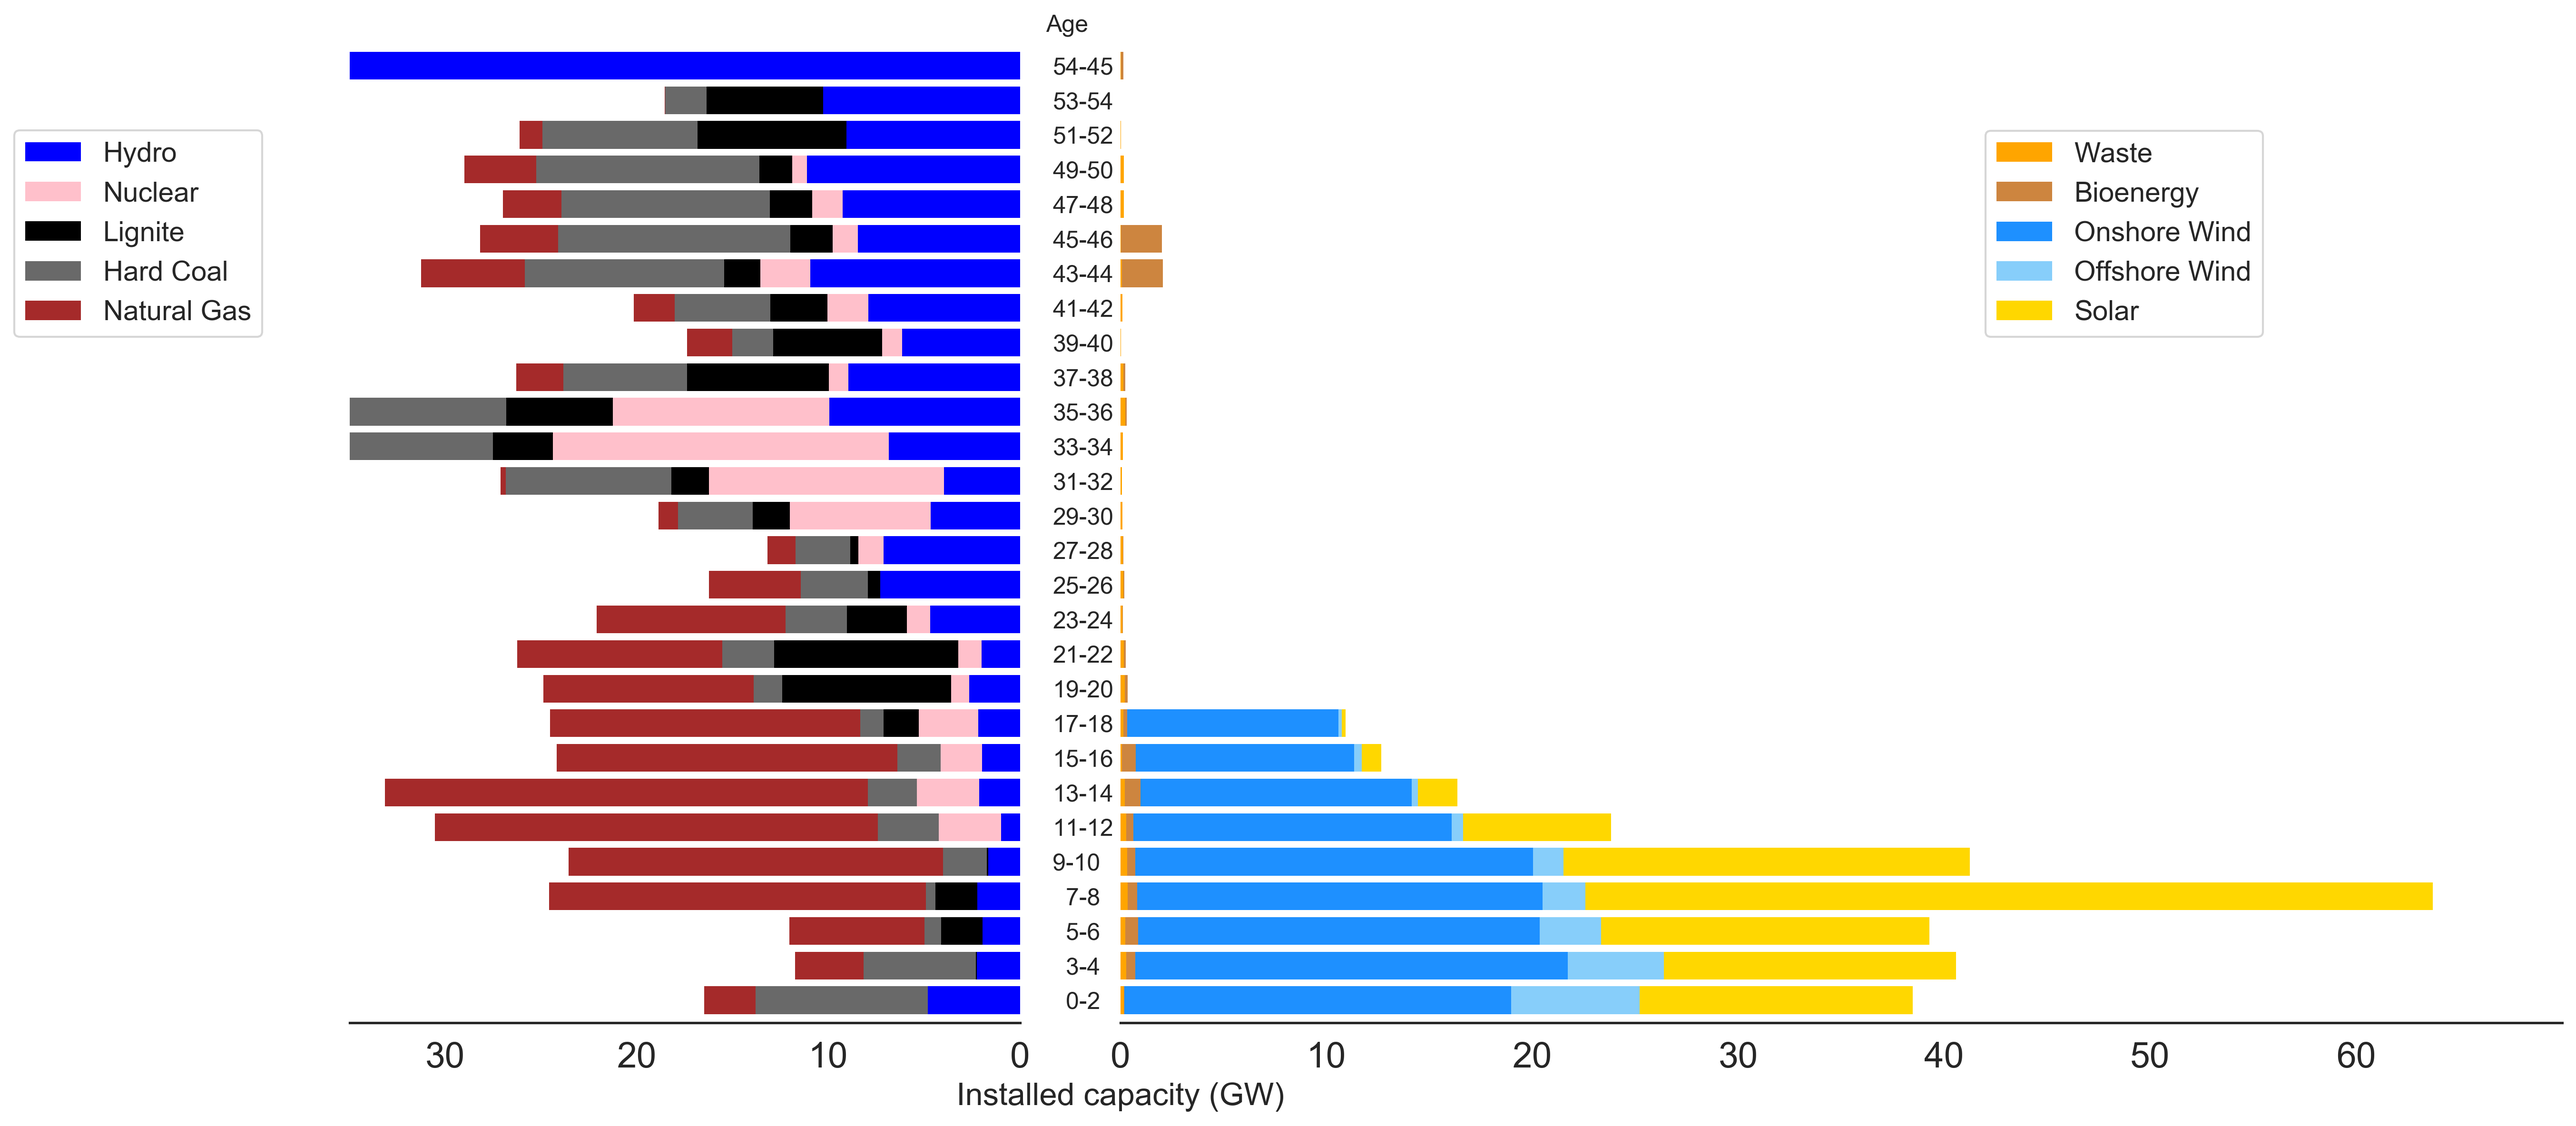
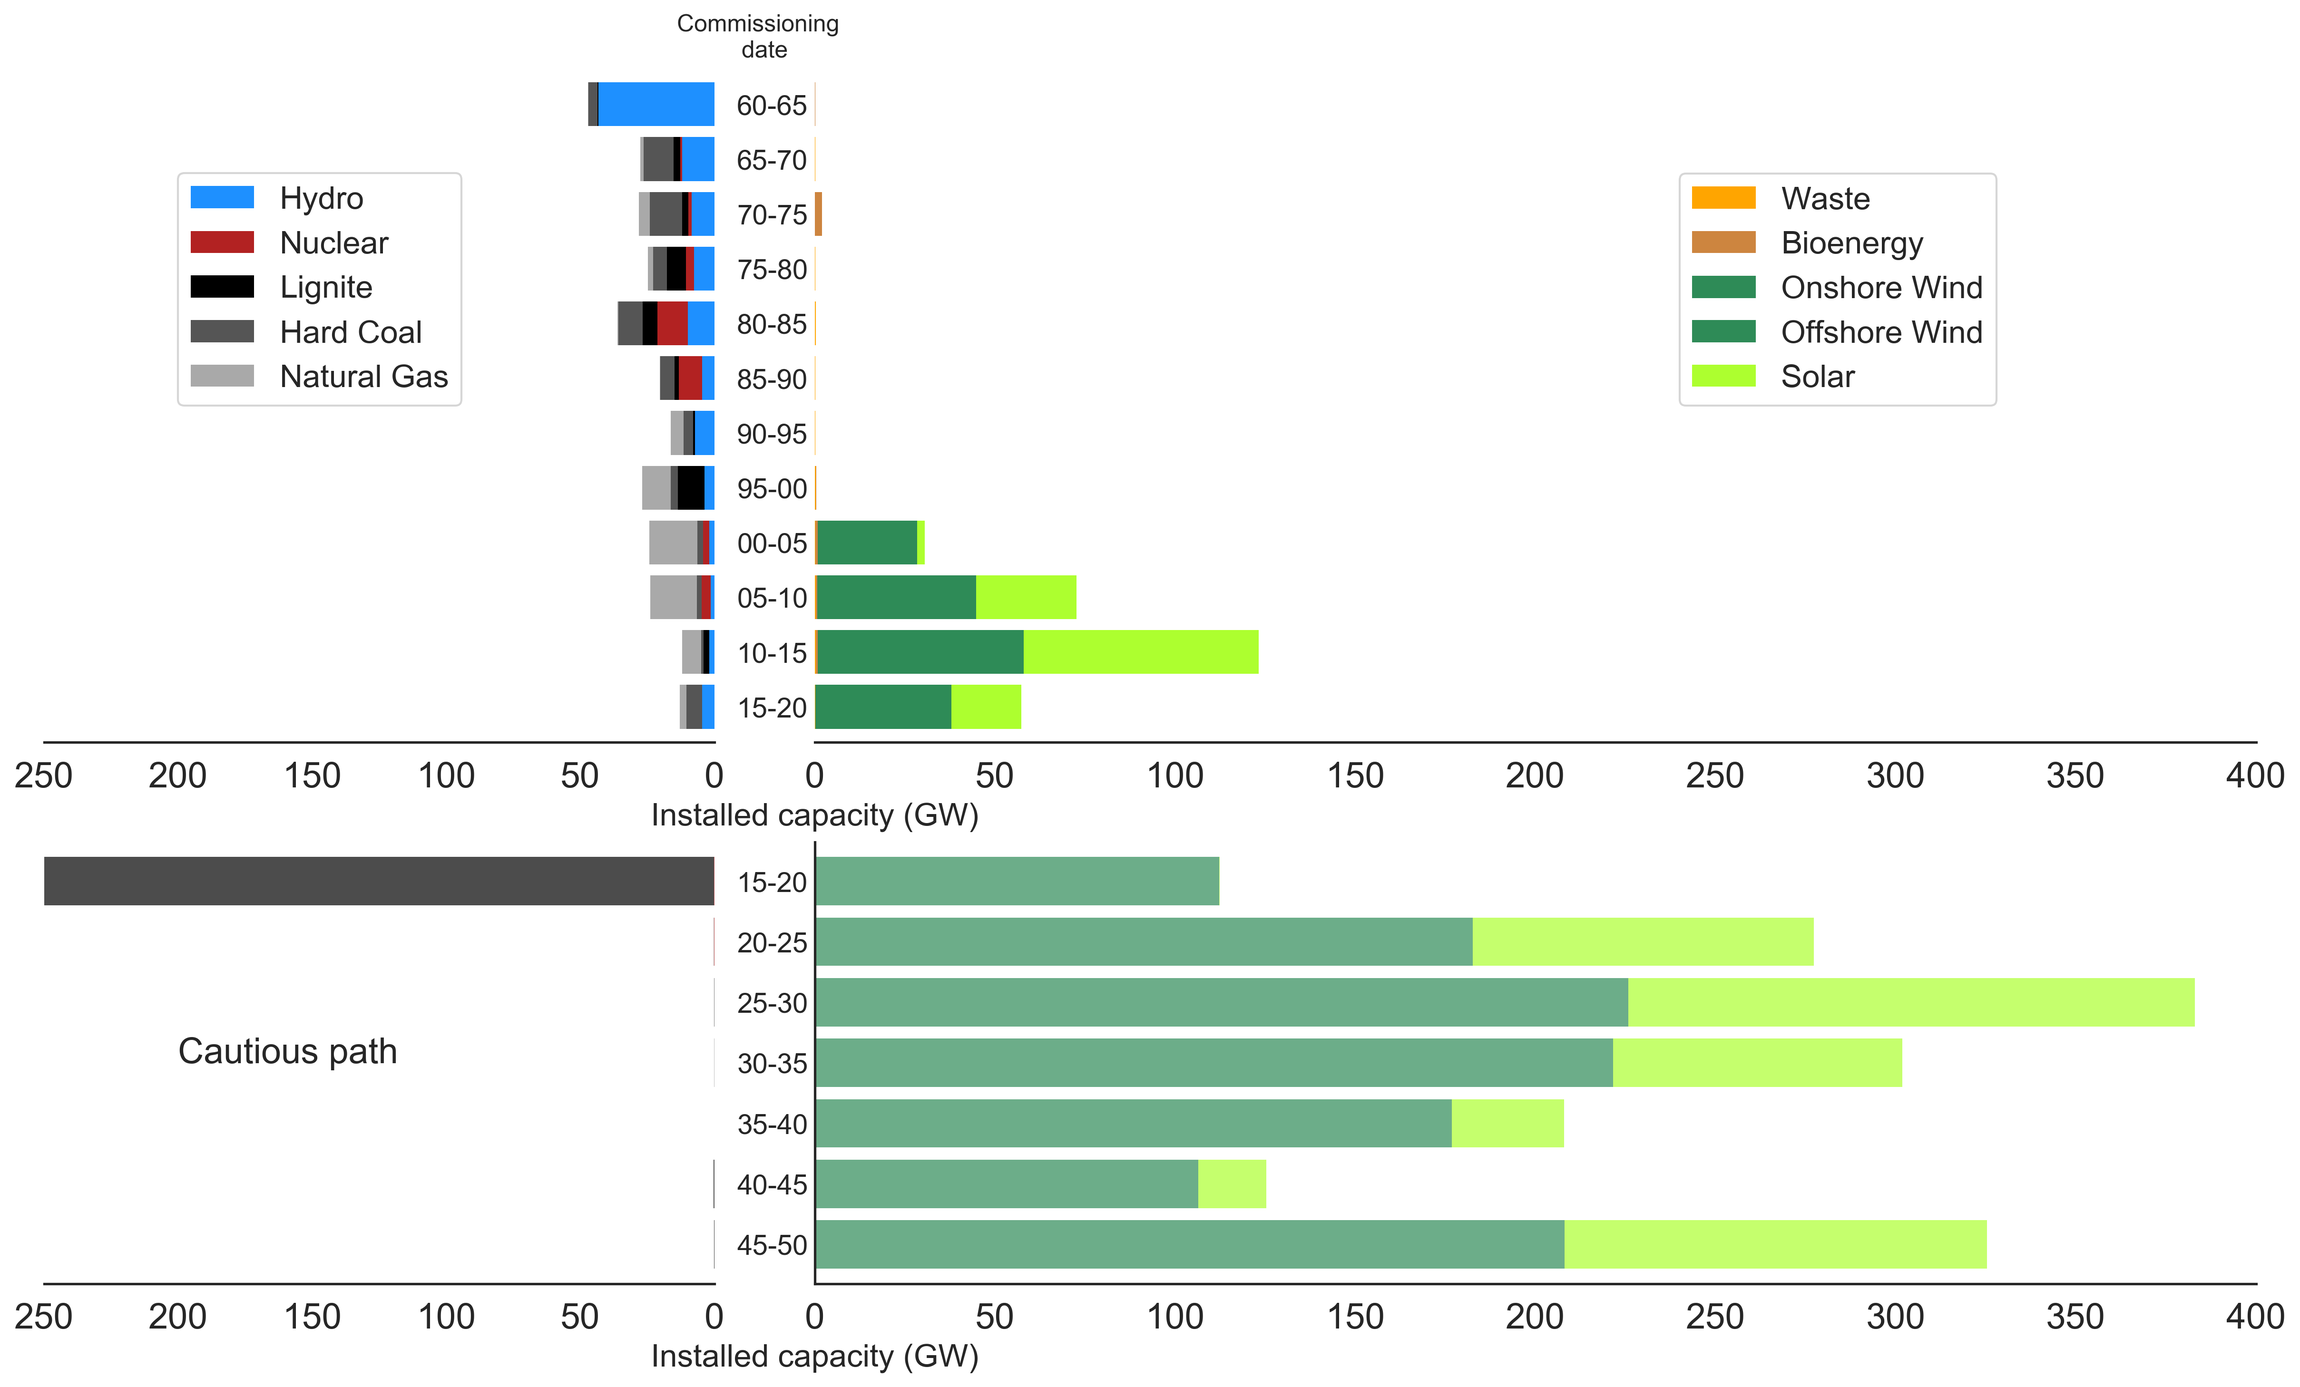
merged historical and model build rates

diff --git a/paper_graphics/age_powerplants.py b/paper_graphics/age_powerplants.py
@@ -2,6 +2,8 @@
 """
 Created on Sat Oct 26 11:25:50 2019
 
+TODO: Add thewindpower database
+
 @author: Marta
 
 """
@@ -18,9 +20,11 @@ plt.rcParams['ytick.direction'] = 'in'
 plt.rcParams['xtick.labelsize'] = 18
 plt.rcParams['ytick.labelsize'] = 18
 
-#Power plants database: https://github.com/FRESNA/powerplantmatching
+# Conventional capacities read from power plants database: 
+#https://github.com/FRESNA/powerplantmatching
+
 data=pd.read_csv('data/matched_data_red.csv')
-years=np.arange(1965, 2021, 2)
+years=np.arange(1965, 2021, 5)
 
 
 technologies=['Hydro', 'Nuclear', 'Hard Coal', 'Lignite', 'Natural Gas', 
@@ -97,6 +101,7 @@ for tech in ['Waste', 'Bioenergy']: #, 'Wind', 'Solar']:
                               (i[3] > (year-5 )) & 
                               (i[3] < (year))])
 
+# PV capacities read from IRENA database 
 # https://www.irena.org/statistics
 pv_df = pd.read_csv('data/PV_capacity_IRENA.csv', sep=';',
                     index_col=0, encoding="latin-1")
@@ -104,41 +109,69 @@ onwind_df = pd.read_csv('data/OnshoreWind_capacity_IRENA.csv', sep=';',
                     index_col=0, encoding="latin-1")
 offwind_df = pd.read_csv('data/OffshoreWind_capacity_IRENA.csv', sep=';',
                     index_col=0, encoding="latin-1")
-for year in years[-9:]:
-    agedata['Solar'][year] =  (pv_df[str(year-1)]['European Union']-pv_df[str(year-3)]['European Union'])
-    agedata['Onshore Wind'][year] =  (onwind_df[str(year-1)]['European Union']-onwind_df[str(year-3)]['European Union'])
-    agedata['Offshore Wind'][year] =  (offwind_df[str(year-1)]['European Union']-offwind_df[str(year-3)]['European Union'])
-agedata.fillna(0, inplace=True)    
-    
-agedata=agedata/1000 #GW 
-#%%    
+for year in years[-4:-1]:    
+    agedata['Solar'][year] =  (pv_df[str(year)]['European Union']-pv_df[str(year-5)]['European Union'])
+    agedata['Onshore Wind'][year] =  (onwind_df[str(year)]['European Union']-onwind_df[str(year-5)]['European Union'])
+    agedata['Offshore Wind'][year] =  (offwind_df[str(year)]['European Union']-offwind_df[str(year-5)]['European Union'])
+agedata['Solar'][2020] =  (pv_df[str(2018)]['European Union']-pv_df[str(2015)]['European Union'])
+agedata['Onshore Wind'][2020] =  (onwind_df[str(2018)]['European Union']-onwind_df[str(2015)]['European Union'])
+agedata['Offshore Wind'][2020] =  (offwind_df[str(2018)]['European Union']-offwind_df[str(2015)]['European Union'])
 
-plt.figure(figsize=(20,20))
-gs1 = gridspec.GridSpec(2, 3)
-ax0 = plt.subplot(gs1[0,0])
-ax1 = plt.subplot(gs1[0,1:3])
-gs1.update(wspace=0.15)
+agedata.fillna(0, inplace=True)    
+agedata=agedata/1000 #GW 
+
+#future build_rates
+idx = pd.IndexSlice
+cum_cap=pd.read_csv('results/version-Base/csvs/metrics.csv', sep=',', 
+                    index_col=0, header=[0,1,2])
+path_name='go'
+years_future=np.arange(2020, 2051, 5)
+build_rates = pd.DataFrame(index = pd.Series(data=years_future, name='year'),
+                       columns = pd.Series(data=technologies, name='technology'))
+expansion_dic={'Nuclear':'nuclear expansion', 
+               'Hard Coal': 'coal expansion', 
+               'Lignite': 'lignite expansion', 
+               'OCGT': 'OCGT expansion',
+               'CCGT': 'CCGT expansion',
+               'Onshore Wind': 'onwind expansion', 
+               'Offshore Wind':'offwind expansion', 
+               'Solar': 'solar expansion'}
+
+for year in years_future:
+    for technology in [t for t in technologies if t not in ('Hydro','Waste', 'Bioenergy', 'Natural Gas')]: 
+        build_rates[technology][year]= cum_cap.loc[expansion_dic[technology],idx[path_name, 'opt', str(year)]]
+        build_rates['Natural Gas'][year]= (cum_cap.loc[expansion_dic['OCGT'],idx[path_name, 'opt', str(year)]]
+                                            + cum_cap.loc[expansion_dic['CCGT'],idx[path_name, 'opt', str(year)]])
+build_rates=build_rates/1000 #GW 
+#%%    
+color_list = pd.read_csv('color_scheme.csv', sep=',')
+color = dict(zip(color_list['tech'].tolist(),
+            color_list[' color'].tolist(),))
+        
+plt.figure(figsize=(20,12))
+gs1 = gridspec.GridSpec(17, 3)
+ax0 = plt.subplot(gs1[0:9,0])
+ax1 = plt.subplot(gs1[0:9,1:3])
+ax2 = plt.subplot(gs1[10:16,0])
+ax3 = plt.subplot(gs1[10:16,1:3])
+gs1.update(wspace=0.15, hspace=0.4)
 
 a0=agedata[['Hydro', 'Nuclear', 'Lignite', 'Hard Coal',  'Natural Gas']].plot.barh(stacked=True, 
-          ax=ax0, color=['blue', 'pink', 'black', 'dimgrey', 'brown'], width=0.8, linewidth=0)
+          ax=ax0, color=[color['hydro'], color['nuclear'], color['lignite'], color['coal'], color['gas']], width=0.8, linewidth=0)
 a1 = agedata[['Waste', 'Bioenergy', 'Onshore Wind', 'Offshore Wind', 'Solar']].plot.barh(stacked=True, 
-            ax=ax1, color=['orange', 'peru', 'dodgerblue', 'lightskyblue', 'gold'], width=0.8, linewidth=0)
+            ax=ax1, color=[color['waste'], color['biomass'], color['onshore wind'], color['onshore wind'], color['solar PV']], width=0.8, linewidth=0)
 
 ax0.invert_xaxis()
 ax0.invert_yaxis()
 ax1.invert_yaxis()
 ax0.set_yticks([])
-ax0.set_xlim(35,0)
-ax1.set_xlim(0,70)
-ax1.set_xticks(np.arange(0,70,10))
+ax0.set_xlim(250,0)
+ax1.set_xlim(0,400)
+#ax1.set_xticks(np.arange(0,70,10))
 ax0.set_ylabel('')
 ax1.set_ylabel('')
-
-ax1.set_yticklabels([ '54-45', '53-54', '51-52', '49-50', '47-48', '45-46', '43-44', '41-42',
-                      '39-40', '37-38', '35-36', '33-34', '31-32', '29-30', 
-                      '27-28', '25-26','23-24','21-22','19-20','17-18',
-                     '15-16','13-14','11-12','9-10  ','7-8  ','5-6  ',
-                     '3-4  ', '0-2  '], fontsize=12)    
+ax1.set_yticklabels([str(year-5)[2:4]+'-'+str(year)[2:4] for year in years], fontsize=14) 
+    
 ax0.spines["top"].set_visible(False)
 ax1.spines["top"].set_visible(False)
 ax0.spines["left"].set_visible(False)
@@ -146,7 +179,30 @@ ax1.spines["right"].set_visible(False)
 ax1.spines["left"].set_visible(False)
 ax0.spines["right"].set_visible(False)
 ax0.set_xlabel('Installed capacity (GW)', fontsize=16, x=1.15)
-ax0.set_title('Age', x=1.07)
-ax0.legend(loc=(-0.5,0.7), fontsize=14)
-ax1.legend(loc=(0.6,0.7), fontsize=14)
+ax0.set_title('Commissioning \n date', x=1.07)
+ax0.legend(loc=(0.2, 0.5), fontsize=16)
+ax1.legend(loc=(0.6,0.5), fontsize=16)
+
+a2=build_rates[['Nuclear', 'Lignite', 'Hard Coal',  'Natural Gas']].plot.barh(stacked=True, legend=None,
+   ax=ax2, color=[color['nuclear'], color['lignite'], color['coal'], color['gas']], alpha=0.7, width=0.8, linewidth=0)
+a3 = build_rates[['Onshore Wind', 'Offshore Wind', 'Solar']].plot.barh(stacked=True, legend=None,
+     ax=ax3, color=[color['onshore wind'], color['onshore wind'], color['solar PV']], alpha=0.7, width=0.8, linewidth=0)
+ax2.invert_xaxis()
+ax2.invert_yaxis()
+ax3.invert_yaxis()
+ax2.set_yticks([])
+ax2.set_xlim(250,0)
+ax3.set_xlim(0,400)
+#ax3.set_xticks(np.arange(0,70,10))
+ax2.set_ylabel('')
+ax3.set_ylabel('')
+ax3.set_yticklabels([str(year-5)[2:4]+'-'+str(year)[2:4] for year in years_future], fontsize=14) 
+ax2.spines["top"].set_visible(False)
+ax3.spines["top"].set_visible(False)
+ax2.spines["left"].set_visible(False)
+ax3.spines["right"].set_visible(False)
+ax2.spines["left"].set_visible(False)
+ax2.spines["right"].set_visible(False)
+ax2.set_xlabel('Installed capacity (GW)', fontsize=16, x=1.15)
+ax2.text(200, 3, 'Cautious path', fontsize=18)
 plt.savefig('../figures/age_distribution.png', dpi=300, bbox_inches='tight') 

diff --git a/paper_graphics/heating_historical.py b/paper_graphics/heating_historical.py
@@ -1,6 +1,9 @@
 # -*- coding: utf-8 -*-
 """
 Created on Thu Oct 24 19:20:37 2019
+1. Usar colores de referencia
+2. Sustituir edad por año de instalación
+3. Añadir datos de thewindpower
 
 @author: Marta
 """
